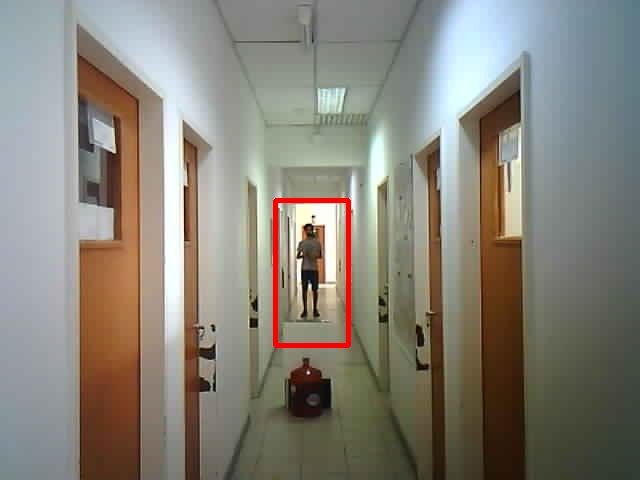
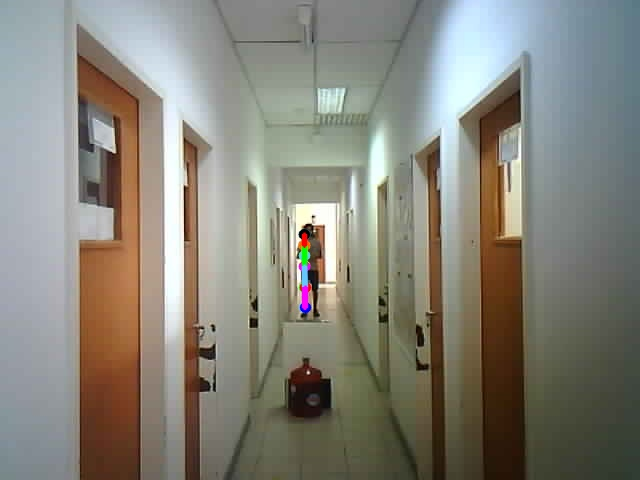
Added export openPose keypoints to a json file

Changed region(s): [[0.4062, 0.4062, 0.5625, 0.75], [0.4688, 0.4688, 0.5, 0.6562]]

diff --git a/OpenPose/openpose.py b/OpenPose/openpose.py
@@ -5,7 +5,7 @@ import numpy as np
 from random import randint
 import argparse
 
-filename = "../Images/pedestrians_2.jpg"
+filename = "../Images/Experiment/SET2/cam1_1103.jpg"
 
 parser = argparse.ArgumentParser(description='Run keypoint detection')
 parser.add_argument("--device", default="cpu", help="Device to inference on")
@@ -197,12 +197,27 @@ detected_keypoints = []
 keypoints_list = np.zeros((0,3))
 keypoint_id = 0
 threshold = 0.1
+kps_array = []
+dict = {
+        "key_point":"",
+        "value":""
+        }
 
 for part in range(nPoints):
     probMap = output[0,part,:,:]
     probMap = cv2.resize(probMap, (image1.shape[1], image1.shape[0]))
     keypoints = getKeypoints(probMap, threshold)
-    print("Keypoints - {} : {}".format(keypointsMapping[part], keypoints))
+
+    dict["key_point"] = keypointsMapping[part]
+    array_key_point = []
+    for keypoint in keypoints:
+        x = keypoint[0]
+        y = keypoint[1]
+        array_key_point.append([x,y])
+    dict["value"] = array_key_point
+    kps_array.append(dict.copy())
+
+    #print("{} : {}".format(keypointsMapping[part], keypoints))
     keypoints_with_id = []
     for i in range(len(keypoints)):
         keypoints_with_id.append(keypoints[i] + (keypoint_id,))
@@ -211,10 +226,10 @@ for part in range(nPoints):
 
     detected_keypoints.append(keypoints_with_id)
 
-# json_object = json.dumps(detected_keypoints, indent=4)
+json_object = json.dumps(kps_array, indent=4)
 
-# with open('detected_keypoints.json', 'w') as json_file:
-#         json_file.write(json_object)
+with open('detected_keypoints.json', 'w') as json_file:
+        json_file.write(json_object)
 
 frameClone = image1.copy()
 for i in range(nPoints):
